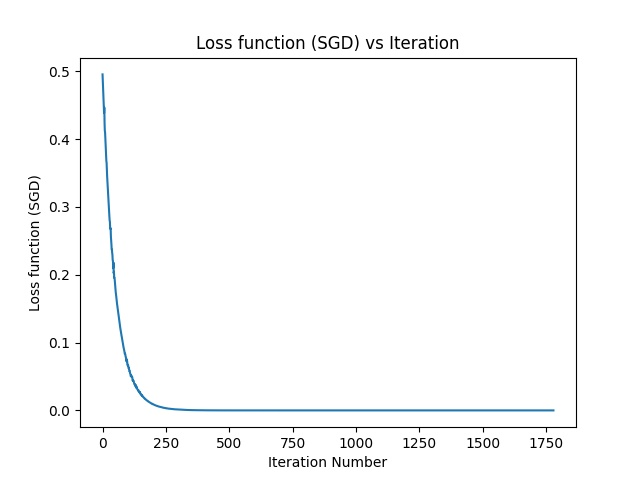
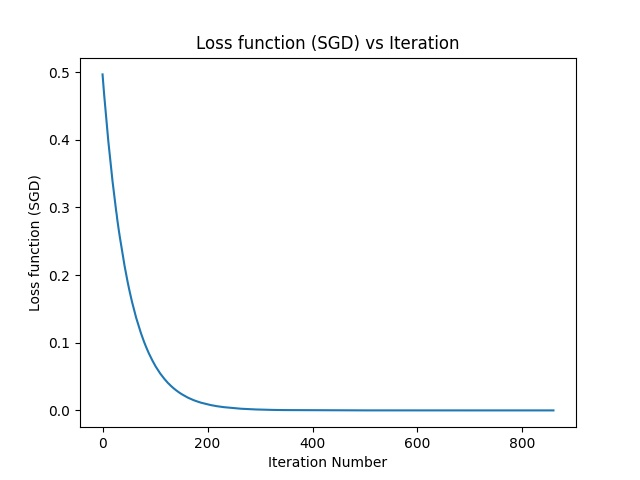
updated files

diff --git a/Assignment-1/Q3/main.py b/Assignment-1/Q3/main.py
@@ -35,7 +35,7 @@ def loss(theta, dataX, dataY):
 
 def loss_grad(theta, dataX, dataY):
     h_theta = sigmoid(np.dot(dataX, theta))
-    return np.dot(dataX.T, dataY - h_theta)/(2*dataY.shape[0])
+    return -np.dot(dataX.T, dataY - h_theta)/(2*dataY.shape[0])
 
 def HessianMatrix(theta, dataX, dataY):
     h_theta  = sigmoid(np.dot(dataX, theta))
@@ -46,7 +46,12 @@ def HessianMatrix(theta, dataX, dataY):
 
 def update_params(theta, gradient, hessian):
     update = np.dot(np.linalg.inv(hessian), gradient)
-    return (theta + update)
+    return (theta - update)
+
+def get_accuracy(X,Y,theta):
+    Y_pred=sigmoid(np.dot(X,theta))
+    Y_pred=np.where(Y_pred>0.5,1,0)
+    return np.mean(Y_pred==Y)
     
 def training(dataX, dataY, iterations):
     theta = np.zeros((dataX.shape[1]))
@@ -56,6 +61,7 @@ def training(dataX, dataY, iterations):
         hessian = HessianMatrix(theta, dataX, dataY)
         theta = update_params(theta, gradient, hessian)
         # print("Loss: {}, Theta Params: {}".format(L_theta, theta))
+        print(hessian, gradient)
     return theta
         
 def predict(theta, dataX, dataY):
@@ -64,19 +70,19 @@ def predict(theta, dataX, dataY):
         print("Predicted Val:{}, Original Val:{}".format(round(predicted[i],2), dataY[i]))
 
 def y_val(x, theta):
-    return (-theta[2] - x*theta[1])/theta[0]
+    return (-theta[0] - x*theta[1])/theta[2]
 
 def graph(theta, dataX, dataY):
     x1_neg, x2_y_neg = [], []
     x1_pos, x2_y_pos = [], []
-    theta0, theta1, theta2 = theta[2], theta[1], theta[0]
+    theta0, theta1, theta2 = theta[0], theta[1], theta[2]
     for i in range(dataY.shape[0]):
         if(dataY[i] == 0):
-            x1_neg.append(dataX[i][1]) #x1 in x2*theta2 + x1*theta1 + x0
-            x2_y_neg.append(dataX[i][0]) #x2 in x2*theta2 + x1*theta1 + x0
+            x1_neg.append(dataX[i][0]) #x1 in x2*theta2 + x1*theta1 + x0
+            x2_y_neg.append(dataX[i][1]) #x2 in x2*theta2 + x1*theta1 + x0
         else:
-            x1_pos.append(dataX[i][1])
-            x2_y_pos.append(dataX[i][0])
+            x1_pos.append(dataX[i][0])
+            x2_y_pos.append(dataX[i][1])
     plt.scatter(x1_neg, x2_y_neg, c='green', label='Negative -> 0')
     plt.scatter(x1_pos, x2_y_pos, c='red', label='Positive   -> 1')
     
@@ -100,11 +106,11 @@ def graph(theta, dataX, dataY):
 def main():
     X_orig = normalize(data_load('logisticX.csv'))
     Y = data_load('logisticY.csv')
-    X_orig[:, [1, 0]] = X_orig[:, [0, 1]] #swap columns so as to have [ x2 x1 x0 ]
-    X = np.c_[X_orig, np.ones(Y.shape)]
-    theta = training(X, Y, 100)
+    # X_orig[:, [1, 0]] = X_orig[:, [0, 1]] #swap columns so as to have [ x2 x1 x0 ]
+    X = np.c_[np.ones(Y.shape), X_orig] # [x0 x1 x2]
+    theta = training(X, Y, 2)
     print("Learned Parameters:\nTheta0: {}\nTheta1: {}\nTheta2: {}"
-          .format(round(theta[2],2), round(theta[1],2), round(theta[0],2)))
+          .format(round(theta[0],4), round(theta[1],4), round(theta[2],4)))
     graph(theta, X_orig, Y)
 
 if __name__ == '__main__':

diff --git a/Assignment-1/Q1/main.py b/Assignment-1/Q1/main.py
@@ -8,12 +8,13 @@ import os
 
 learning_rate = 0.01
 DELTA = 1e-8
-BATCH_SIZE = 10
+BATCH_SIZE = 100
 BASE_DIR = os.path.dirname(os.path.dirname(os.path.abspath(__file__)))
 CONVERGE_ITERATIONS = 10
 TIME_GAP = 0.001
-ITERATION_SKIP = 100
+ITERATION_SKIP = 20
 DEBUG = False
+MIN_LOSS = 1e-2
 
 def h_theta(theta, x):
     if type(x) == int or type(x) == float:
@@ -51,7 +52,7 @@ def batch_gradient(theta, BATCH_SIZE, data_X, data_Y): # -(1/batch_size) * summa
     return loss, gradient
 
 def converge(loss1, loss2):
-    if(loss1 > 1 or loss2 > 1):
+    if(loss1 > MIN_LOSS or loss2 > MIN_LOSS):
         return False
     return abs(loss1 - loss2) <= DELTA 
 
@@ -93,7 +94,7 @@ def graph_y_yhat(data_x, data_y, theta):
     
     plt.scatter(data_x,data_y, label='Original Value')
     plt.plot([min_x, max_x], [h_theta(theta, min_x), h_theta(theta, max_x)], label='Predicted Value', color='orange')
-    plt.title("Acidity vs Density")
+    plt.title("Acidity vs Density (Linear Regression)")
     plt.xlabel("Acidity (Normalized)")
     plt.ylabel("Density")
     plt.legend()
@@ -172,6 +173,7 @@ def batch_gradient_descent(learning_rate, batch_size, data_x, data_y):
     count1, count2 = 0, 0 # For checking convergence (SGD)
     loss1, loss2   = 0, 0
     
+    ITERATION_LIMIT = int((EXAMPLES/batch_size)*10000)
     iterations = 0 # Iteration count
     
     loss = []
@@ -203,6 +205,9 @@ def batch_gradient_descent(learning_rate, batch_size, data_x, data_y):
                 return (iterations, DELTA, theta, theta_list, loss, data_x, data_y)
             else:
                 loss1, loss2 = 0, 0
+
+        if(iterations >=  ITERATION_LIMIT):
+            return (iterations, DELTA, theta, theta_list, loss, data_x, data_y)
 
 def contour(iterations, theta_list, loss, learning_rate, data_x, data_y, label):
     theta0_list = []
@@ -250,6 +255,7 @@ def contour(iterations, theta_list, loss, learning_rate, data_x, data_y, label):
 
 def partE(data_x, data_y):
     learning_rate_list = [0.001, 0.025, 0.1]
+    # learning_rate_list = [0.2, 0.5, 1, 2]
     for learning_rate in learning_rate_list:
         iterations, __, _, theta_list, loss, data_x, data_y = batch_gradient_descent(learning_rate, BATCH_SIZE, data_x, data_y)
         label = "Contours of the Error function (Learning rate = {})".format(learning_rate)
@@ -284,7 +290,7 @@ def partA(iterations, learning_rate, stopping_threshold, theta, theta_list, loss
     print("Learning Rate: {}".format(learning_rate))
     print("Iterations: {}".format(iterations))
     print("Stopping Threshold: {}".format(stopping_threshold))
-    print("Parameters Learned: {}".format(theta))
+    print("Theta0: {}\nTheta1: {}".format(round(theta[1],7), round(theta[0],7)))
     if not DEBUG:
         graph_loss(loss)
         input("\nPress Enter to move to Part B")

diff --git a/Assignment-1/Q2/main.py b/Assignment-1/Q2/main.py
@@ -197,7 +197,8 @@ def graph(theta_list,frames_size,title,filename):
     anim = FuncAnimation(fig, animation, frames=np.arange(0, theta_list.shape[0], frames_size), interval=10, repeat_delay=3000, blit=False)    
 
     plt.show()
-    anim.save(filename, writer='Pillow')
+    os.system('mkdir -p assets')
+    anim.save(os.path.join(BASE_DIR, 'Q2', 'assets', filename), writer='Pillow')
 
 
 def main():
@@ -219,15 +220,15 @@ def main():
             "learning_rate": learning_rate,
             "batch_size": 1,
             "delta": 1e-10,
-            "frames":1000,
+            "frames":10000,
             "converge_iterations": 500,
-            "ITERATION_LIMIT": 10000
+            "ITERATION_LIMIT": 100000
         },
         {
             "learning_rate": learning_rate,
             "batch_size": 100,
             "delta": 1e-9,
-            "frames":500,
+            "frames":50,
             "converge_iterations": 500,
             "ITERATION_LIMIT": 50000
         },
@@ -285,10 +286,10 @@ def main():
         filename = "Theta_Movement_r_" + str(batch["batch_size"]) + ".gif"
         
         graph(theta_list,batch["frames"],title,filename)
-        
-        
-        if i>0:
-            input("\nPress Enter for Next Batch Size\n")
+                
+        # if i>0:
+        #     input("\nPress Enter for Next Batch Size\n")
+            
         start = time.time()
 
 if __name__ == '__main__':
